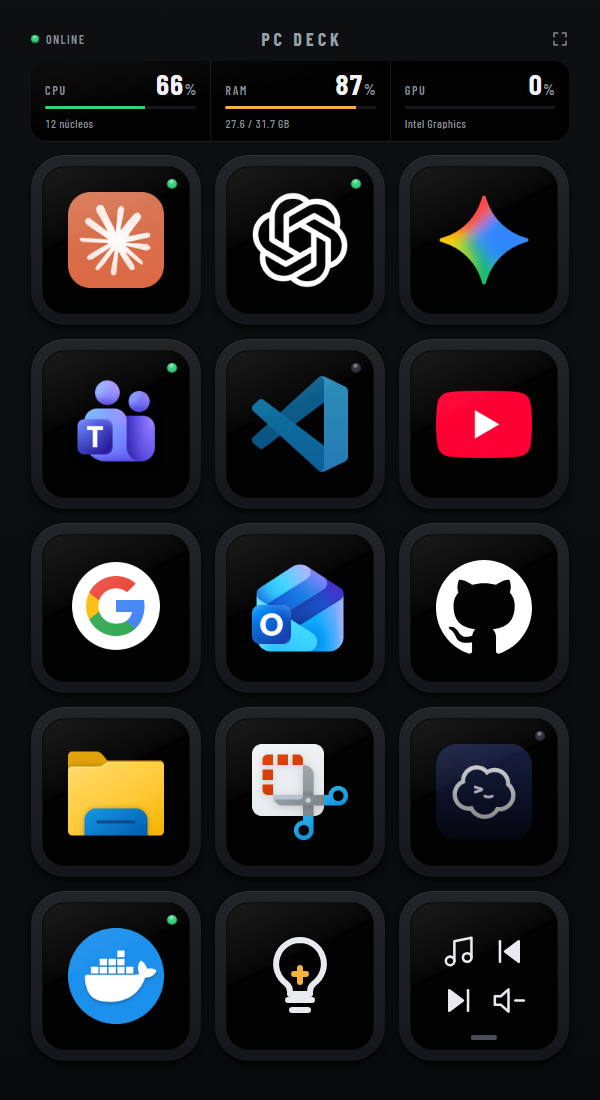
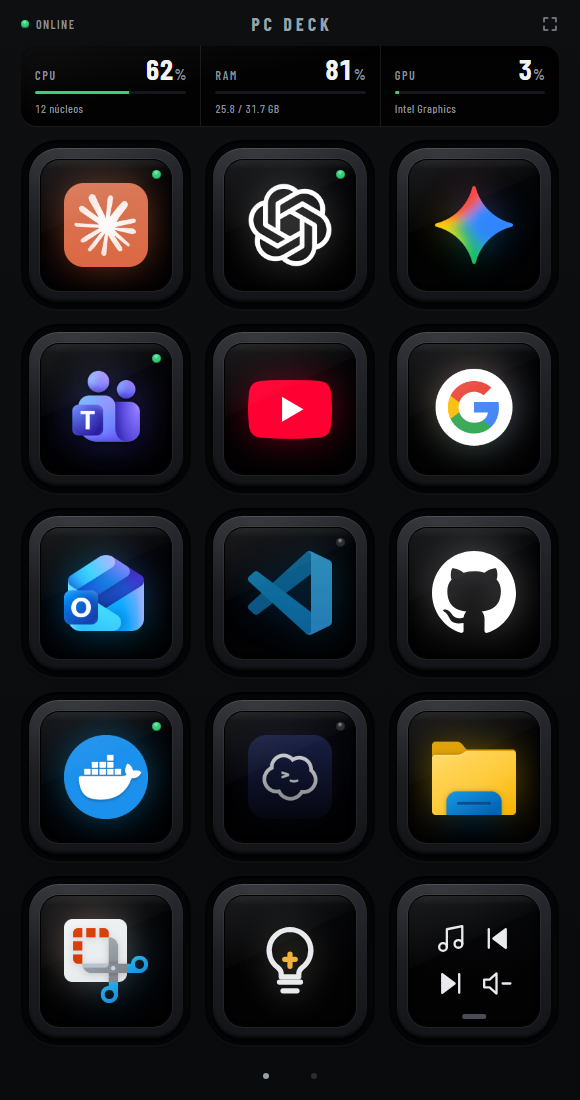
Paisagem em console e tecla em três camadas
- Paisagem: serigrafia e faixa CPU/RAM/GPU viram uma coluna lateral da
  mesma altura da matriz 5×3; as teclas ocupam a altura inteira da tela
- Tecla: poço recortado no chassi, cápsula com borda iluminada e saia
  sombreada que afunda dentro do poço, tela com moldura, friso de vidro
  e luz de fundo do próprio ícone (presa dentro da tela)
- DESIGN.md atualizado; fotos do README em pé e deitado

diff --git a/pc-deck/public/style.css b/pc-deck/public/style.css
@@ -245,6 +245,12 @@ body {
   align-items: center;
   justify-content: center;
 }
+/* serigrafia + faixa + teclas: um bloco só (em paisagem vira coluna lateral + matriz) */
+.deck-block {
+  display: flex;
+  flex-direction: column;
+  align-items: center;
+}
 .keys-area .strip {
   width: var(--block-w);
   height: var(--strip-h);
@@ -257,20 +263,40 @@ body {
   gap: var(--gap);
 }
 
+/* Tecla em três camadas, como no aparelho:
+   poço recortado no chassi (o botão) → cápsula de plástico (::before, afunda) → tela LCD (afunda junto). */
 .key {
   position: relative;
+  isolation: isolate;
   width: var(--k);
   height: var(--k);
-  padding: 7%;
+  padding: 11.5%;
   border: 0;
-  border-radius: 20%;
-  background: linear-gradient(180deg, var(--cap-hi), var(--cap-lo));
+  border-radius: 22%;
+  background: #050607;
   box-shadow:
-    inset 0 1px 0 rgba(255, 255, 255, 0.08),
-    0 1px 1px rgba(0, 0, 0, 0.9),
-    0 4px 8px -2px rgba(0, 0, 0, 0.8);
+    inset 0 2px 3px rgba(0, 0, 0, 0.95),          /* fundo do poço */
+    inset 0 -1px 0 rgba(255, 255, 255, 0.035),    /* lábio de baixo do recorte */
+    0 1px 0 rgba(255, 255, 255, 0.045);           /* aresta do chassi pegando luz */
   cursor: pointer;
   touch-action: manipulation;
+}
+.key::before { /* a cápsula */
+  content: "";
+  position: absolute;
+  inset: 4.5%;
+  z-index: -1;
+  border-radius: 19%;
+  background:
+    radial-gradient(120% 85% at 28% 0%, rgba(255, 255, 255, 0.075), transparent 58%),
+    linear-gradient(180deg, #282a2f 0%, #1c1e22 46%, #131417 100%);
+  box-shadow:
+    inset 0 1px 0 rgba(255, 255, 255, 0.12),      /* borda de cima pegando luz */
+    inset 1px 0 0 rgba(255, 255, 255, 0.03),
+    inset -1px 0 0 rgba(255, 255, 255, 0.03),
+    inset 0 -2px 2px rgba(0, 0, 0, 0.55),         /* saia de baixo, na sombra */
+    0 2px 2px rgba(0, 0, 0, 0.75),                /* contato com o fundo do poço */
+    0 5px 9px -3px rgba(0, 0, 0, 0.8);
   transition: transform 70ms ease-out, box-shadow 70ms ease-out;
 }
 
@@ -280,36 +306,54 @@ body {
   place-items: center;
   width: 100%;
   height: 100%;
-  border-radius: 15%;
-  background: var(--lcd);
-  box-shadow: inset 0 1px 4px rgba(0, 0, 0, 0.95), 0 0 0 1px rgba(0, 0, 0, 0.6);
+  border-radius: 14%;
+  background: radial-gradient(130% 95% at 50% 0%, #08090b, var(--lcd) 72%);
+  box-shadow:
+    0 0 0 1px #000,                               /* moldura da tela */
+    0 0 0 2px rgba(255, 255, 255, 0.05),          /* fio de luz na moldura */
+    inset 0 1px 5px rgba(0, 0, 0, 0.95);
   overflow: hidden;
+  transition: transform 70ms ease-out, filter 120ms ease;
 }
-.lcd::after { /* reflexo do vidro sobre a tela */
+.lcd::after { /* vidro: reflexo diagonal + friso de luz no topo */
   content: "";
   position: absolute;
   inset: 0;
+  z-index: 3;
   border-radius: inherit;
-  background: linear-gradient(155deg, rgba(255, 255, 255, 0.10) 0%, rgba(255, 255, 255, 0.02) 38%, transparent 39%);
+  background:
+    linear-gradient(180deg, rgba(255, 255, 255, 0.07) 0, transparent 7%),
+    linear-gradient(155deg, rgba(255, 255, 255, 0.09) 0%, rgba(255, 255, 255, 0.02) 38%, transparent 39%);
   pointer-events: none;
 }
 .lcd img {
-  width: 66%;
-  height: 66%;
+  width: 64%;
+  height: 64%;
   object-fit: contain;
-  transition: filter 160ms ease, transform 160ms ease;
+  transition: transform 160ms ease, opacity 160ms ease;
   -webkit-user-drag: none;
 }
+/* luz de fundo: o próprio ícone, desfocado, ilumina a tela por trás (fica dentro do LCD) */
+.lcd img.halo {
+  position: absolute;
+  filter: blur(calc(var(--k) * 0.11)) saturate(1.6);
+  opacity: 0.4;
+}
+.lcd img.icon { position: relative; z-index: 1; }
 
-/* curso da tecla */
-.key:active:not(:disabled), .key.pressed {
+/* curso da tecla: a cápsula e a tela afundam; o poço fica */
+.key:active:not(:disabled)::before, .key.pressed::before {
   transform: translateY(3px);
   box-shadow:
-    inset 0 1px 0 rgba(255, 255, 255, 0.05),
-    0 0 0 rgba(0, 0, 0, 0.9),
-    0 1px 2px rgba(0, 0, 0, 0.8);
+    inset 0 1px 0 rgba(255, 255, 255, 0.07),
+    inset 0 -1px 1px rgba(0, 0, 0, 0.5),
+    0 0 1px rgba(0, 0, 0, 0.9);
 }
-.key:active:not(:disabled) .lcd img, .key.pressed .lcd img { filter: brightness(0.75); }
+.key:active:not(:disabled) .lcd, .key.pressed .lcd { transform: translateY(3px); filter: brightness(0.78); }
+@media (hover: hover) {
+  .key:hover:not(:disabled)::before { filter: brightness(1.12); }
+}
+.key:disabled .lcd { background: var(--lcd); }
 
 /* resposta do PC: a própria tela da tecla reage */
 .lcd .flash {
@@ -319,7 +363,8 @@ body {
   opacity: 0;
   pointer-events: none;
 }
-.key.busy .lcd img { filter: brightness(0.55); }
+.lcd .flash { z-index: 2; }
+.key.busy .lcd { filter: brightness(0.6); }
 .key.ok .flash { animation: flash-ok 650ms cubic-bezier(0.16, 1, 0.3, 1); }
 .key.err .flash { animation: flash-err 900ms cubic-bezier(0.16, 1, 0.3, 1); }
 @keyframes flash-ok {
@@ -359,6 +404,7 @@ body {
 .mini span { display: grid; place-items: center; min-width: 0; min-height: 0; }
 .mini img { width: 100%; height: 100%; object-fit: contain; }
 .folder-tab { /* marca de pasta: aba na borda de baixo da tela */
+  z-index: 1;
   position: absolute;
   left: 50%;
   bottom: 6%;
@@ -374,6 +420,7 @@ body {
 
 /* rotina: três pontos na borda de baixo; acendem em sequência enquanto os passos rodam */
 .routine-mark {
+  z-index: 1;
   position: absolute;
   left: 50%;
   bottom: 6%;
@@ -398,6 +445,7 @@ body {
 
 /* ---------- teclas vivas ---------- */
 .live-led {
+  z-index: 4; /* LED fica por cima do vidro */
   --on: #2c2f34;
   position: absolute;
   top: 8%;
@@ -414,10 +462,11 @@ body {
 }
 .key.live-on .live-led { --on: var(--ok); opacity: 1; }
 .key.live-off .live-led { opacity: 1; }
-.key.live-off .lcd > img { filter: brightness(0.8) saturate(0.85); }
+.key.live-off .lcd > img.icon { filter: brightness(0.8) saturate(0.85); }
+.key.live-off .lcd > img.halo { opacity: 0.22; }
 
 /* tocando agora: capa do álbum na tela da tecla, título embaixo */
-.np { position: absolute; inset: 0; display: none; border-radius: inherit; overflow: hidden; }
+.np { position: absolute; inset: 0; z-index: 1; display: none; border-radius: inherit; overflow: hidden; }
 .key.np-on .np { display: block; }
 .np-art { position: absolute; inset: 0; width: 100%; height: 100%; object-fit: cover; display: none; }
 .key.np-art-on .np-art { display: block; }
@@ -619,16 +668,61 @@ body {
 }
 .unpaired code { color: var(--text); font-family: var(--font-ui); }
 
-/* ---------- paisagem: matriz 5×3, como o aparelho deitado ---------- */
+/* ---------- paisagem: console ----------
+   Deitado, a altura é o limite. A serigrafia e a faixa LCD viram uma coluna à esquerda,
+   da mesma altura da matriz 5×3, e as teclas crescem até ocupar a altura inteira. */
 @media (orientation: landscape) {
-  .keys-area { --cols: 5; --rows: 3; }
+  .device { --pad: clamp(10px, 3vh, 18px); }
+  .keys-area {
+    --cols: 5;
+    --rows: 3;
+    --rail: clamp(150px, 22vw, 260px);
+    --rail-gap: calc(var(--gap) * 1.5);
+    --k: min(
+      (100cqh - 2 * var(--gap)) / 3,
+      (100cqw - var(--rail) - var(--rail-gap) - 4 * var(--gap)) / 5,
+      200px
+    );
+    --block-w: calc(5 * var(--k) + 4 * var(--gap));
+  }
+  .deck-block {
+    display: grid;
+    grid-template-columns: var(--rail) var(--block-w);
+    grid-template-rows: auto minmax(0, 1fr) auto;
+    grid-template-areas: "head keys" "strip keys" "pages keys";
+    align-items: stretch;
+    column-gap: var(--rail-gap);
+    height: calc(3 * var(--k) + 2 * var(--gap));
+  }
+  .silkscreen {
+    grid-area: head;
+    width: auto;
+    height: auto;
+    margin: 0 0 var(--gap);
+    grid-template-columns: 1fr auto;
+    grid-template-areas: "word word" "power fs";
+    row-gap: 2px;
+  }
+  .wordmark { grid-area: word; justify-self: start; padding: 4px 0 0; }
+  .power { grid-area: power; min-height: 36px; }
+  .fs-btn { grid-area: fs; width: 40px; height: 36px; margin-right: -11px; }
+  .keys-area .strip {
+    grid-area: strip;
+    width: auto;
+    height: auto;
+    margin: 0;
+    grid-template-columns: 1fr;
+    grid-template-rows: repeat(3, minmax(0, 1fr));
+  }
+  .seg { align-content: center; padding: 6px 14px; }
+  .seg + .seg { border-left: 0; border-top: 1px solid #16181b; }
+  .keys { grid-area: keys; align-self: center; }
+  .pages { grid-area: pages; justify-content: flex-start; margin: 6px 0 0 -13px; }
+  .unpaired { grid-area: keys; align-self: center; margin: 0; }
 }
-@media (orientation: landscape) and (max-height: 500px) {
-  .device { --pad: 12px; }
-  .keys-area { --strip-h: 54px; --head-h: 30px; --head-gap: 4px; }
-  .strip-msg { padding-block: 6px; gap: 2px; }
-  .seg { row-gap: 5px; padding-block: 8px 7px; }
+@media (orientation: landscape) and (max-height: 340px) {
   .seg-detail { display: none; }
+  .seg { row-gap: 5px; }
 }
 
 @media (prefers-reduced-motion: reduce) {

diff --git a/pc-deck/public/app.js b/pc-deck/public/app.js
@@ -119,11 +119,12 @@ function wireTravel(el) {
   el.addEventListener('pointerleave', release);
 }
 
-function iconImg(src) {
+function iconImg(src, cls) {
   const img = document.createElement('img');
   img.src = src;
   img.alt = '';
   img.draggable = false;
+  if (cls) img.className = cls;
   return img;
 }
 
@@ -153,7 +154,7 @@ function makeKey(btn) {
     el.title = btn.label;
 
     if (btn.kind === 'folder' && !btn.image) lcd.append(folderFace(btn));
-    else if (btn.image) lcd.append(iconImg(btn.image));
+    else if (btn.image) lcd.append(iconImg(btn.image, 'halo'), iconImg(btn.image, 'icon'));
     else {
       const t = document.createElement('span');
       t.className = 'lcd-label';

diff --git a/pc-deck/public/index.html b/pc-deck/public/index.html
@@ -16,6 +16,7 @@
 <body>
   <div class="device">
     <main class="keys-area">
+     <div class="deck-block">
       <header class="silkscreen">
         <button id="power" class="power" type="button" aria-label="Status da conexão: conectando. Toque para reconectar.">
           <span class="led" aria-hidden="true"></span>
@@ -57,6 +58,7 @@
         <p class="unpaired-title">Celular não pareado</p>
         <p>No PC, abra <code>127.0.0.1:8787/pair</code> e escaneie o QR code com a câmera deste celular.</p>
       </section>
+     </div>
     </main>
 
     <section id="idea" class="idea" hidden role="dialog" aria-modal="true" aria-labelledby="idea-title">

diff --git a/pc-deck/public/sw.js b/pc-deck/public/sw.js
@@ -1,6 +1,6 @@
 // Cache só da "casca" do app; a API sempre vai para a rede.
 // Ícones novos (enviados pelo editor) entram no cache no primeiro uso, pelo fetch abaixo.
-const CACHE = 'pcdeck-v10';
+const CACHE = 'pcdeck-v11';
 const SHELL = ['/', '/index.html', '/style.css', '/app.js', '/manifest.webmanifest', '/icon-192.png', '/icon-512.png',
   '/icons/claude.png', '/icons/codex.png', '/icons/vscode.png', '/icons/youtube.png',
   '/icons/google.png', '/icons/outlook.png', '/icons/github.svg', '/icons/gemini.png', '/icons/teams.png', '/icons/explorer.png', '/icons/snipping.png', '/icons/termius.png', '/icons/docker.png',

diff --git a/pc-deck/public/editor.js b/pc-deck/public/editor.js
@@ -108,7 +108,7 @@ function face(b) {
     lcd.append(h('span', { class: 'mini' }, b.folder.slice(0, 4).map((c) =>
       h('span', {}, c.image || isFolder(c) ? h('img', { src: c.image || '/icons/pasta.svg', alt: '', draggable: false }) : null))));
   } else if (b.image) {
-    lcd.append(h('img', { src: b.image, alt: '', draggable: false }));
+    lcd.append(h('img', { src: b.image, alt: '', draggable: false, class: 'halo' }), h('img', { src: b.image, alt: '', draggable: false, class: 'icon' }));
   } else {
     lcd.append(h('span', { class: 'lcd-label', text: b.label }));
   }

diff --git a/DESIGN.md b/DESIGN.md
@@ -178,42 +178,44 @@ The device fills the viewport (`100dvh`, no scroll, overscroll disabled). Chassi
 The key size is computed rather than set. It is the largest square that fits both the container width and its leftover height, capped at 170px. The gap is `gap` everywhere, both between keys and between the strip and the keys.
 
 - **Portrait:** a 3 × 5 matrix (15 keys per page).
-- **Landscape:** a 5 × 3 matrix, like the device lying down.
-- **Short landscape (max-height 500px):** chassis padding 12px, strip 54px, silkscreen row 30px with a 4px gap, and the detail lines hidden.
+- **Landscape (console):** height is the limit, so the block turns into a console. A left rail (`clamp(150px, 22vw, 260px)`) holds the wordmark, the power and fullscreen row, the strip standing upright with its three segments stacked (1px seams on top instead of on the side), and the page dots at the bottom. The 5 × 3 matrix sits on the right. Keys are the largest squares that fit the full height (cap 200px), and the rail is exactly as tall as the matrix.
+- **Very short landscape (max-height 340px):** the detail lines are hidden.
 
-The silkscreen row is a three-column grid. Power is on the left, the wordmark is centered, and fullscreen is on the right. The touch targets bleed into the margins (negative margins) so the visible glyphs stay aligned to the edges of the block. Page dots appear under the keys only when there is more than one page.
+In portrait the silkscreen row is a three-column grid. Power is on the left, the wordmark is centered, and fullscreen is on the right. The touch targets bleed into the margins (negative margins) so the visible glyphs stay aligned to the edges of the block. Page dots appear under the keys only when there is more than one page.
 
-**The One Block Rule.** The silkscreen row, strip, and key matrix always share one width and one center axis. Nothing sits outside the block except the chassis itself.
+**The One Block Rule.** The silkscreen, strip, and key matrix always form one centered block. In portrait they share one width; in landscape the rail and the matrix share one height. Nothing sits outside the block except the chassis itself.
 
 ## Elevation & Depth
 
 Depth is physical and has two directions. Keycaps stand proud of the chassis. Screens are cut into it. There are no floating layers, cards, or overlays.
 
 ### Shadow Vocabulary
-- **Keycap at rest** (`box-shadow: inset 0 1px 0 rgba(255,255,255,0.08), 0 1px 1px rgba(0,0,0,0.9), 0 4px 8px -2px rgba(0,0,0,0.8)`): a lit top lip, a contact shadow, and a soft drop shadow.
-- **Keycap pressed** (`inset 0 1px 0 rgba(255,255,255,0.05), 0 0 0 rgba(0,0,0,0.9), 0 1px 2px rgba(0,0,0,0.8)`): the drop shadow collapses as the cap travels 3px down.
+- **Key well** (`#050607`, `inset 0 2px 3px rgba(0,0,0,0.95), inset 0 -1px 0 rgba(255,255,255,0.035), 0 1px 0 rgba(255,255,255,0.045)`): the hole cut into the chassis that the cap sits in. It never moves.
+- **Keycap at rest** (`::before`, inset 4.5% in the well, `#282a2f → #1c1e22 → #131417` with a soft top-left highlight; `inset 0 1px 0 rgba(255,255,255,0.12)` lit top edge, 1px side catches, `inset 0 -2px 2px rgba(0,0,0,0.55)` shaded skirt, `0 2px 2px rgba(0,0,0,0.75), 0 5px 9px -3px rgba(0,0,0,0.8)` onto the well floor).
+- **Keycap pressed:** cap and LCD travel 3px down inside the still well; the drop shadow collapses to `0 0 1px rgba(0,0,0,0.9)`.
 - **Recessed screen, strip** (`inset 0 2px 6px rgba(0,0,0,0.9), 0 1px 0 rgba(255,255,255,0.05)`): the cutout, with a lit lower lip on the chassis.
-- **Recessed screen, key LCD** (`inset 0 1px 4px rgba(0,0,0,0.95), 0 0 0 1px rgba(0,0,0,0.6)`).
+- **Key LCD bezel** (`0 0 0 1px #000, 0 0 0 2px rgba(255,255,255,0.05), inset 0 1px 5px rgba(0,0,0,0.95)`): a black frame with a hairline of light around the screen.
 - **LED dome** (`inset 0 -1px 1px rgba(0,0,0,0.45), 0 1px 0 rgba(255,255,255,0.06)`), with a radial highlight at 45% / 28%. It has no halo.
 
 ### Named Rules
 **The Recessed Glass Rule.** Every screen is inset into the chassis and carries a faint diagonal glass sheen (white, 5 to 10% alpha, fading to transparent by about 40%). Content on a screen never casts an outer shadow.
 
-**The No Glow Rule.** Light does not spill. The LED, the meters, and the flashes stay inside their own shapes.
+**The No Glow Rule.** Light does not spill. The LED, the meters, and the flashes stay inside their own shapes. The one light a key makes is its LCD backlight: a blurred copy of the icon behind it (blur 11% of the key, saturate 1.6, 40% opacity), clipped by the screen, the way a real LCD lights up around a bright image. It never leaves the screen.
 
 ## Shapes
 
-Shapes are soft-cornered squares that scale with their object. A keycap is rounded at 20% of its size and its LCD at 15%, so the screen corner sits concentric inside the cap at any key size. The strip uses a viewport-scaled radius (12 to 16px). The unpaired panel shares the strip's radius, so every screen cut into the chassis has the same corner. Meter bars are 3px tall with 2px ends. The LED and page dots are circles. There are no borders, except the 1px dividers between strip segments (#16181b), which read as seams in the glass.
+Shapes are soft-cornered squares that scale with their object. A key well is rounded at 22% of its size, its cap at 19%, and its LCD at 14%, so the corners stay concentric at any key size. The strip uses a viewport-scaled radius (12 to 16px). The unpaired panel shares the strip's radius, so every screen cut into the chassis has the same corner. Meter bars are 3px tall with 2px ends. The LED and page dots are circles. There are no borders, except the 1px dividers between strip segments (#16181b), which read as seams in the glass.
 
 ## Components
 
 ### Key (signature)
 Feels like a physical keycap with a screen in it.
-- **Shape:** a square sized to fit, rounded at 20%. The LCD inset is 7% and is rounded at 15%.
-- **Content:** the real app icon in full colour at 66% of the LCD, `object-fit: contain`. There is no visible label. The label is carried by `aria-label` and the title.
-- **Empty slot:** a disabled, unlit LCD with no icon. It is never hidden or collapsed, because the grid is always full.
-- **Travel:** on pointerdown the cap sinks `translateY(3px)` (70ms ease-out), the icon dims to 75% brightness, and the phone vibrates for 10ms. The cap is held down for at least 90ms, and the action fires on release.
-- **Busy:** the icon dims to 55% brightness.
+- **Layers:** well (the button, rounded 22%) → cap (`::before`, inset 4.5%, rounded 19%) → LCD (inset 11.5% from the well edge, rounded 14%). Each corner stays concentric with the next at any key size.
+- **Content:** the real app icon in full colour at 64% of the LCD, `object-fit: contain`, over its own backlight. There is no visible label. The label is carried by `aria-label` and the title.
+- **Glass:** a diagonal sheen plus a thin lit band along the top edge of the screen.
+- **Empty slot:** a disabled, unlit LCD with no icon, still sitting in its well and cap. It is never hidden or collapsed, because the grid is always full.
+- **Travel:** on pointerdown the cap and screen sink `translateY(3px)` inside the well (70ms ease-out), the screen dims to 78% brightness, and the phone vibrates for 10ms. The cap is held down for at least 90ms, and the action fires on release. On devices with hover, the cap brightens slightly.
+- **Busy:** the screen dims to 60% brightness.
 - **Result:** OK is a white radial flash inside the LCD (650ms, `cubic-bezier(0.16, 1, 0.3, 1)`). Error is a red fill at 42% alpha held for 60% of 900ms, plus a vibration pattern of 40/60/40ms.
 - **Focus:** a 2px Silkscreen Grey outline offset 3px.
 

diff --git a/README.md b/README.md
@@ -2,7 +2,9 @@
 
 Um Stream Deck caseiro: o celular vira um painel de atalhos do PC Windows, com teclas LCD e monitor de CPU, RAM e GPU em tempo real.
 
-<p align="center"><img src=".impeccable/review/mobile.png" alt="PC Deck no celular: faixa de CPU, RAM e GPU e grade de teclas com ícones de apps" width="300"></p>
+<p align="center"><img src=".impeccable/review/mobile.png" alt="PC Deck no celular em pé: faixa de CPU, RAM e GPU e grade 3×5 de teclas com ícones de apps" width="300"></p>
+
+<p align="center"><img src=".impeccable/review/landscape.png" alt="PC Deck no celular deitado: coluna com CPU, RAM e GPU à esquerda e matriz 5×3 de teclas ocupando a tela" width="720"></p>
 
 - **Agente no PC:** Node puro, sem `npm install`. Executa só as ações cadastradas em `deck.json`.
 - **Painel no celular:** PWA em tela cheia, com acesso privado via Tailscale (HTTPS) e pareamento por QR code.
